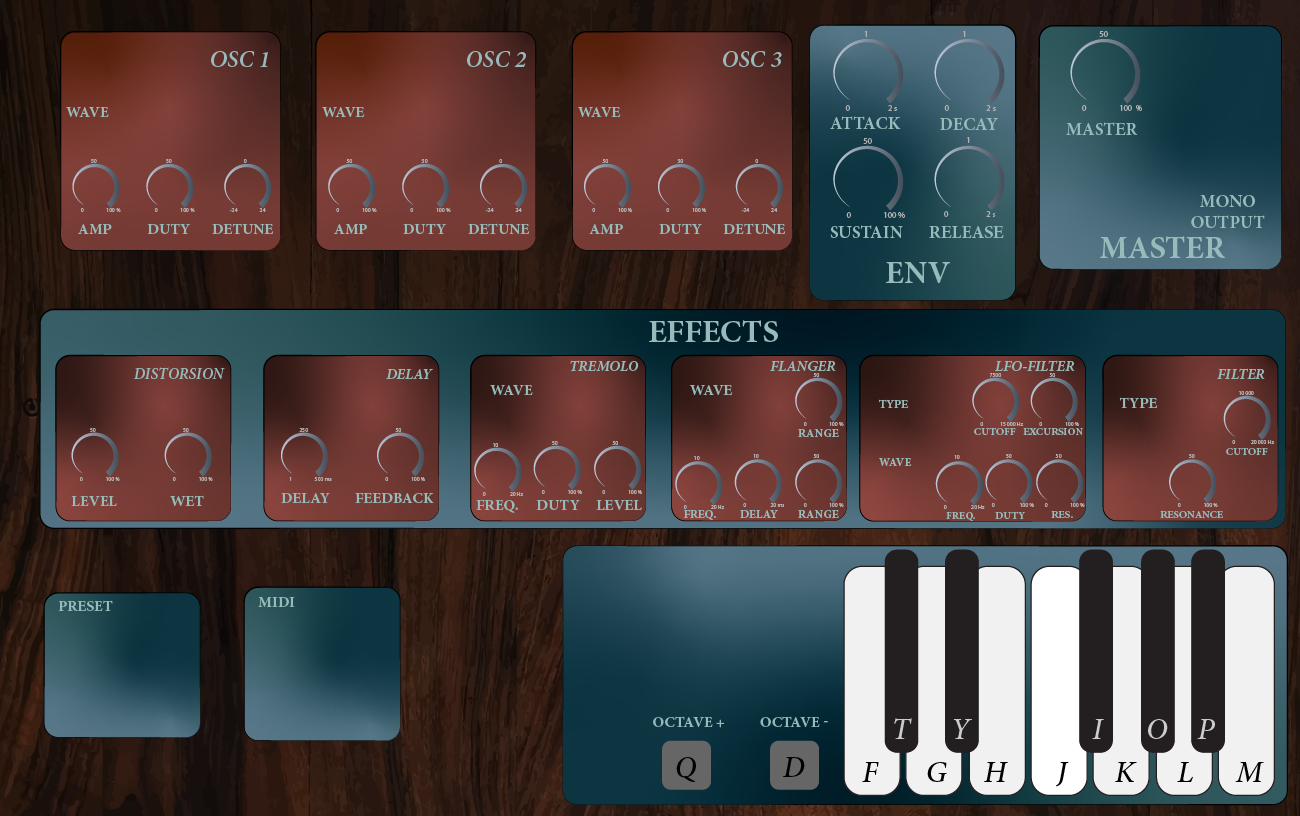
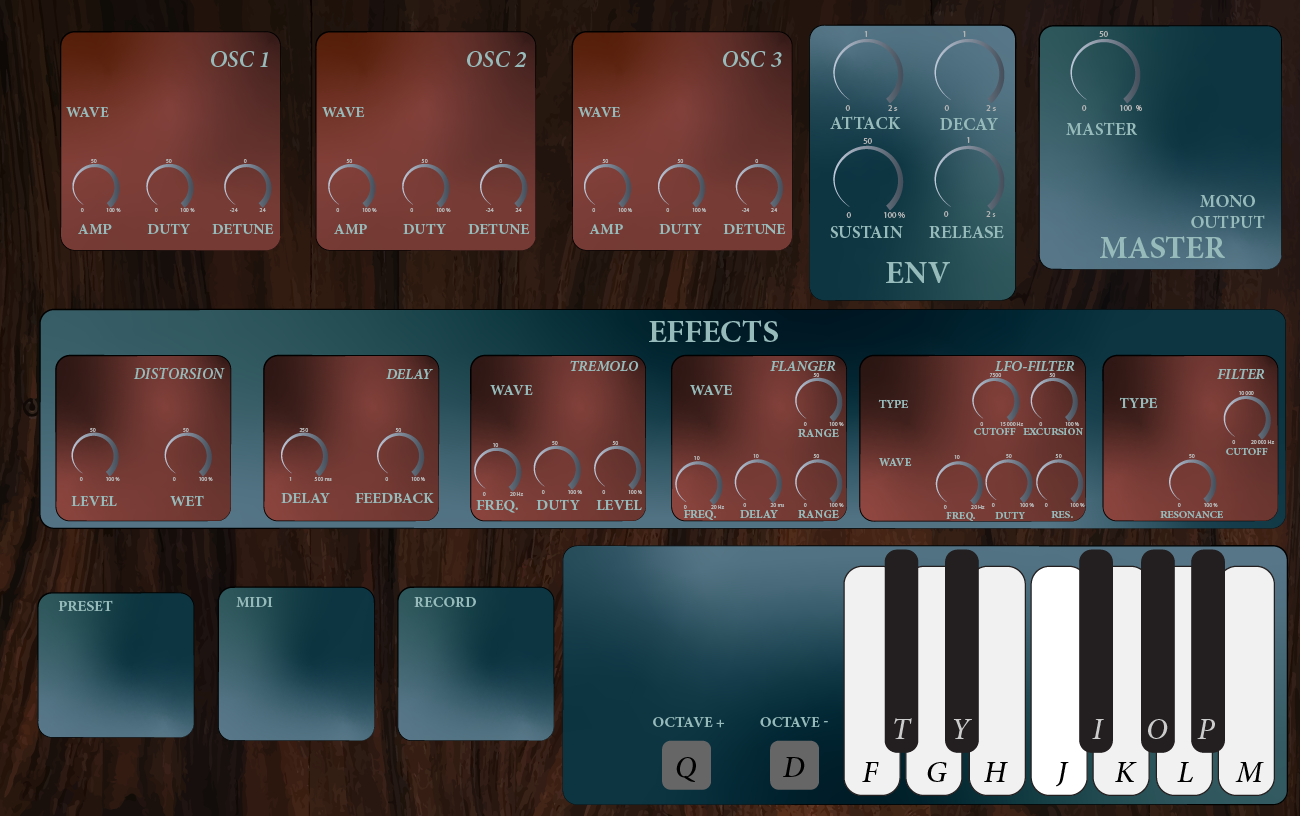
pressed buttons and recording block

Changed region(s): [[0.2769, 0.7047, 0.4308, 0.9191], [0.1231, 0.7047, 0.2154, 0.9191], [0.0308, 0.7353, 0.0615, 0.8885]]

diff --git a/src/gui/gui.c b/src/gui/gui.c
@@ -96,12 +96,12 @@ static const int pots_location_and_size[NUMBER_OF_POTS][3] = {
 static const int buttons_location[NUMBER_OF_BUTTONS][2] = {
     {88, 635},
     {88, 670},
-    {290, 620},
+    {270, 645},
 
     //Locations for the record button
-    {410, 609},
+    {410, 649},
     //Location for the stop button
-    {480, 609}
+    {480, 649}
 };
 
 static const int pot_min_max[NUMBER_OF_POTS][2] = {
@@ -806,8 +806,8 @@ int create_buttons_map(Gui_SDL_objects *gui)
     //STOP recording button
     gui->buttons[4].imgon = IMAGE_BUTTON_STOP_PRESSED;
     gui->buttons[4].imgoff = IMAGE_BUTTON_STOP_UNPRESSED;
-    gui->buttons[4].width = WIDTH_BUTTON_RECORD;
-    gui->buttons[4].height = HEIGHT_BUTTON_RECORD;
+    gui->buttons[4].width = WIDTH_BUTTON_STOP;
+    gui->buttons[4].height = HEIGHT_BUTTON_STOP;
 
     for (int bt = 0; bt < NUMBER_OF_BUTTONS; ++bt)
     {

diff --git a/src/gui/gui.h b/src/gui/gui.h
@@ -68,12 +68,12 @@
 #define HEIGHT_BUTTON_MIDI              30
 
 #define IMAGE_BUTTON_RECORD_UNPRESSED    "../src/gui/Figs/record_button.png"
-#define IMAGE_BUTTON_RECORD_PRESSED      "../src/gui/Figs/record_button.png"
-#define WIDTH_BUTTON_RECORD             60
-#define HEIGHT_BUTTON_RECORD            60
+#define IMAGE_BUTTON_RECORD_PRESSED      "../src/gui/Figs/record_pressed.png"
+#define WIDTH_BUTTON_RECORD             50
+#define HEIGHT_BUTTON_RECORD            50
 
 #define IMAGE_BUTTON_STOP_UNPRESSED     "../src/gui/Figs/stop_button.png"
-#define IMAGE_BUTTON_STOP_PRESSED       "../src/gui/Figs/stop_button.png"
+#define IMAGE_BUTTON_STOP_PRESSED       "../src/gui/Figs/stop_pressed.png"
 #define WIDTH_BUTTON_STOP               60
 #define HEIGHT_BUTTON_STOP              60
 
